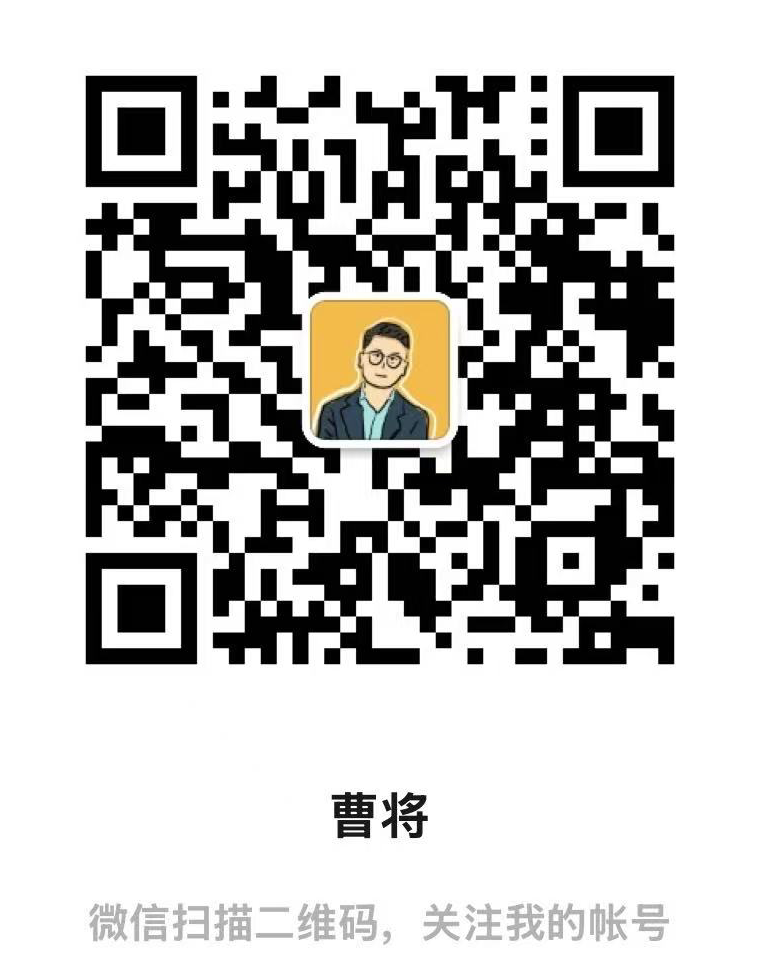
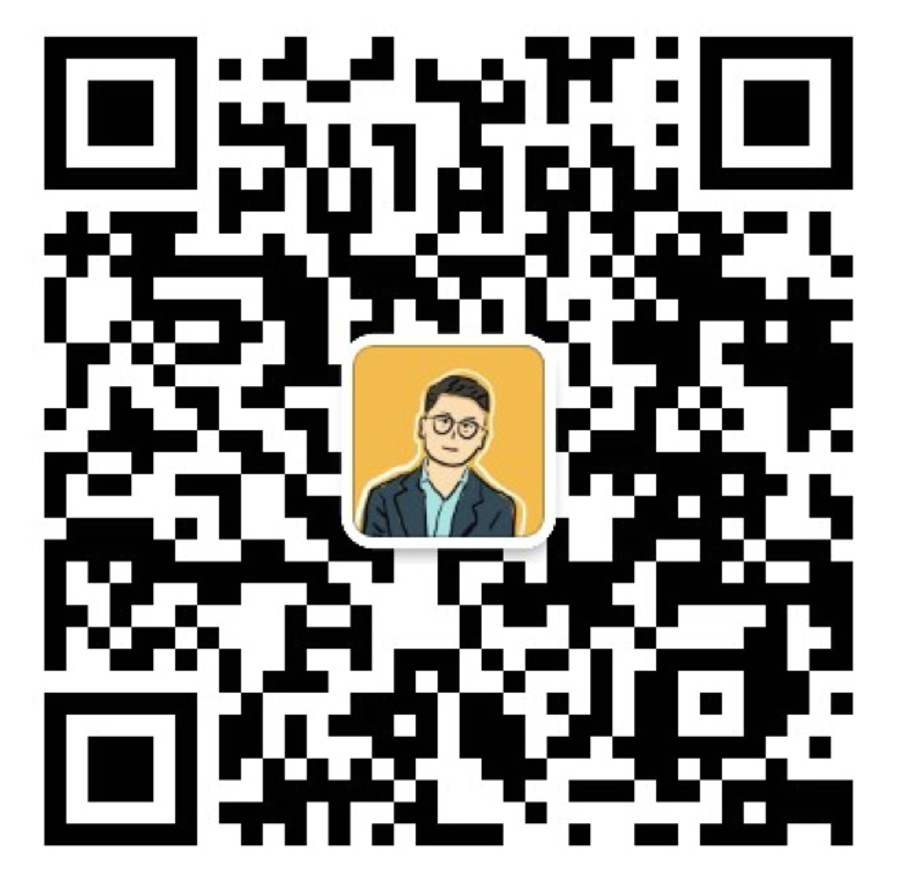
Add Xiaobot column and refresh WeChat QR

diff --git a/app/page.tsx b/app/page.tsx
@@ -7,6 +7,7 @@ import {
   BookHeart,
   BookOpen,
   MessageCircle,
+  Newspaper,
   Radio,
   Rotate3D,
   TentTree,
@@ -89,6 +90,19 @@ const storyItems: StoryItem[] = [
     icon: Radio,
     href: "https://huishengriji.cn",
   },
+  {
+    id: "xiaobot",
+    index: "06",
+    eyebrow: "小报童专栏",
+    shortTitle: "小报童",
+    title: "把结构化表达，练进真实职场",
+    description:
+      "专栏《如何提升结构化表达能力》，覆盖竞聘演讲、年终总结、研究报告、会议纪要等 30+ 个职场常见表达场景。用 40+ 篇内容拆解真实案例，并提供可以直接复用的写作模板。",
+    note: "30+ 场景 · 40+ 篇内容",
+    icon: Newspaper,
+    href: "https://xiaobot.net/p/jghbd?refer=c3f68f06-3090-44fa-bf08-434f581889b3",
+    actionLabel: "查看专栏",
+  },
 ];
 
 export default function Home() {
@@ -141,6 +155,7 @@ export default function Home() {
             <li>微信公众号：曹将</li>
             <li>小红书账号：曹将</li>
             <li>独立作品：回声日记，huishengriji.cn</li>
+            <li>小报童专栏：如何提升结构化表达能力</li>
           </ul>
         </div>
         <div className="stage-glow glow-red" aria-hidden="true" />
@@ -227,8 +242,8 @@ export default function Home() {
                     className="wechat-qr"
                     src="/wechat-caojiang-qr.png"
                     alt="微信公众号曹将二维码"
-                    width={760}
-                    height={980}
+                    width={906}
+                    height={890}
                     sizes="(max-width: 560px) 190px, 138px"
                     unoptimized
                   />
@@ -282,7 +297,7 @@ export default function Home() {
 
         <div className="stage-counter" aria-hidden="true">
           <strong>{activeItem?.index ?? "00"}</strong>
-          <span>/ 05</span>
+          <span>/ 06</span>
         </div>
 
         <footer className="font-credit">本站使用 OPPO Sans 4.0 字体</footer>

diff --git a/app/globals.css b/app/globals.css
@@ -411,7 +411,8 @@ a {
 }
 
 .trigger-village .trigger-icon,
-.trigger-echo .trigger-icon {
+.trigger-echo .trigger-icon,
+.trigger-xiaobot .trigger-icon {
   background: var(--green);
 }
 
@@ -440,8 +441,14 @@ a {
   bottom: 10%;
 }
 
+.trigger-xiaobot {
+  left: 25%;
+  bottom: 16%;
+}
+
 .trigger-books::after,
-.trigger-echo::after {
+.trigger-echo::after,
+.trigger-xiaobot::after {
   right: 100%;
 }
 
@@ -738,6 +745,11 @@ a {
   .trigger-echo {
     left: 4%;
     bottom: 18%;
+  }
+
+  .trigger-xiaobot {
+    left: 27%;
+    bottom: 10%;
   }
 
   .character-sign {

diff --git a/app/XiguaTeacher3D.tsx b/app/XiguaTeacher3D.tsx
@@ -10,7 +10,8 @@ export type FocusId =
   | "village"
   | "wechat"
   | "xiaohongshu"
-  | "echo";
+  | "echo"
+  | "xiaobot";
 
 type Tilt = {
   x: number;
